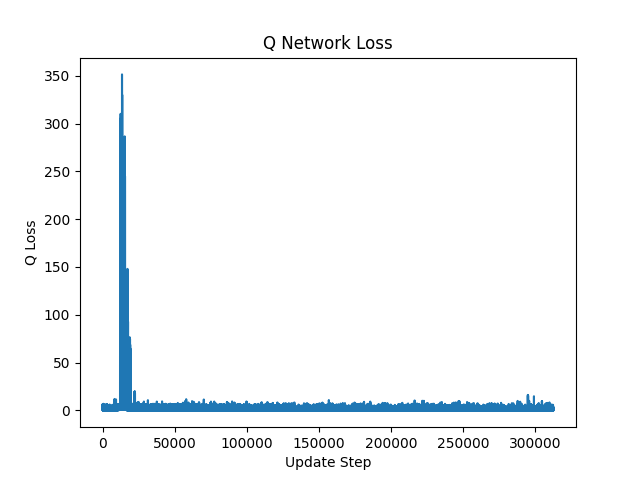
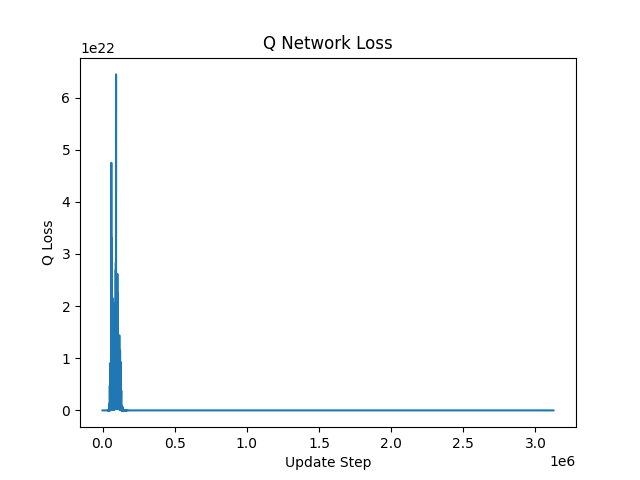
Saved old results and sending to laptop for more testing

diff --git a/MixedObservationEncoder.py b/MixedObservationEncoder.py
@@ -41,6 +41,7 @@ class MixedObservationEncoder(nn.Module):
 
         if len(self.spatial_shape) == 3:
             c, h, w = self.spatial_shape
+            flattened_size = 64 * (h // 4) * (w // 4)
             self.spatial_encoder = nn.Sequential(
                 ReshapeToSpatial((c, h, w)),
                 nn.Conv2d(c, 32, kernel_size=4, stride=2, padding=1),
@@ -49,13 +50,13 @@ class MixedObservationEncoder(nn.Module):
                 nn.ReLU(),
                 nn.Conv2d(64, 64, kernel_size=3, stride=1, padding=1),
                 nn.ReLU(),
-                nn.AdaptiveAvgPool2d((1, 1)),
                 nn.Flatten(),
-                nn.Linear(64, spatial_hidden_dim),
+                nn.Linear(flattened_size, spatial_hidden_dim),
                 nn.ReLU(),
             )
         elif len(self.spatial_shape) == 2:
             h, w = self.spatial_shape
+            flattened_size = 64 * (h // 4) * (w // 4)
             self.spatial_encoder = nn.Sequential(
                 ReshapeToSpatial((1, h, w)),
                 nn.Conv2d(1, 32, kernel_size=4, stride=2, padding=1),
@@ -64,9 +65,8 @@ class MixedObservationEncoder(nn.Module):
                 nn.ReLU(),
                 nn.Conv2d(64, 64, kernel_size=3, stride=1, padding=1),
                 nn.ReLU(),
-                nn.AdaptiveAvgPool2d((1, 1)),
                 nn.Flatten(),
-                nn.Linear(64, spatial_hidden_dim),
+                nn.Linear(flattened_size, spatial_hidden_dim),
                 nn.ReLU(),
             )
         else:

diff --git a/cleanrl_dqn.py b/cleanrl_dqn.py
@@ -23,14 +23,14 @@ class Args:
     torch_deterministic: bool = True
     cuda: bool = True
 
-    total_timesteps: int = 100000000
+    total_timesteps: int = 50000000
     learning_rate: float = 2.5e-4
     num_envs: int = 128
     buffer_size: int = 10000
     gamma: float = 0.99
     tau: float = 1.0
     target_network_frequency: int = 500
-    batch_size: int = 256
+    batch_size: int = 128
     start_e: float = 1
     end_e: float = 0.05
     exploration_fraction: float = 0.5
